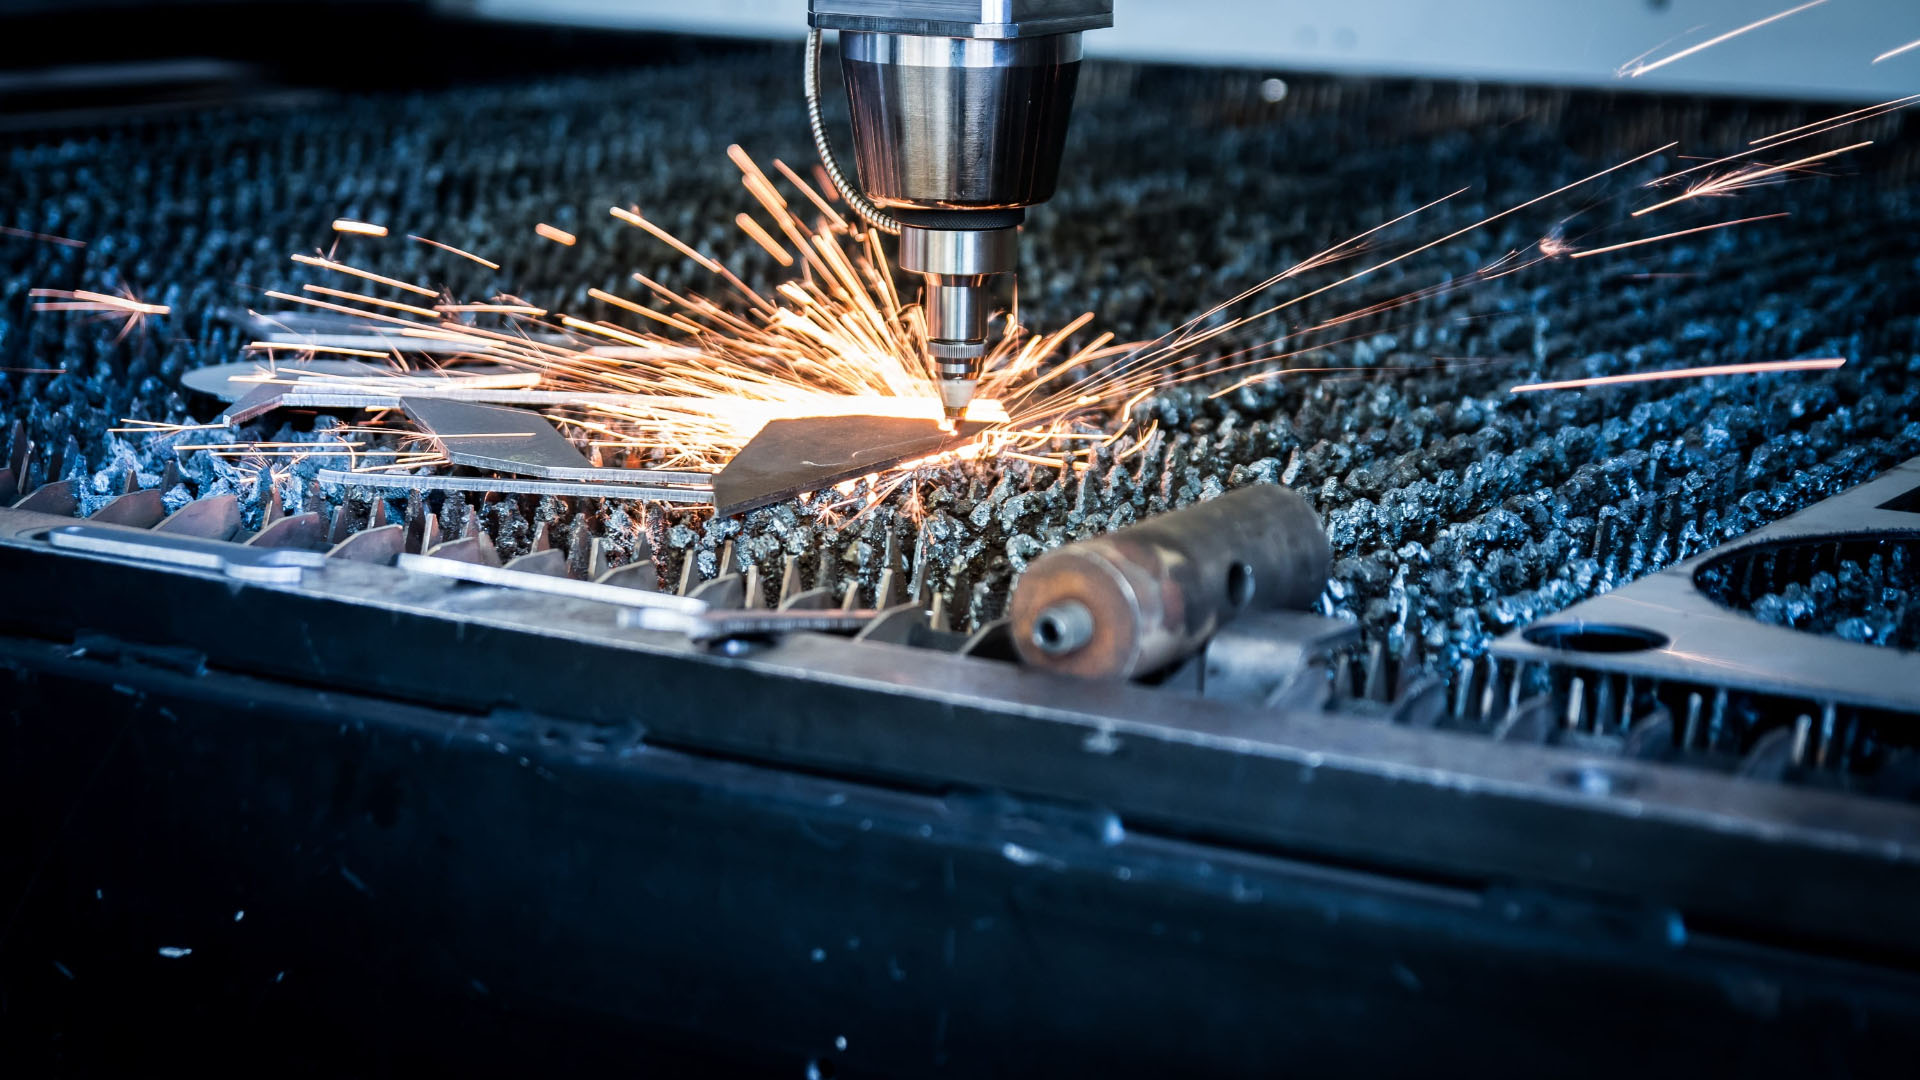
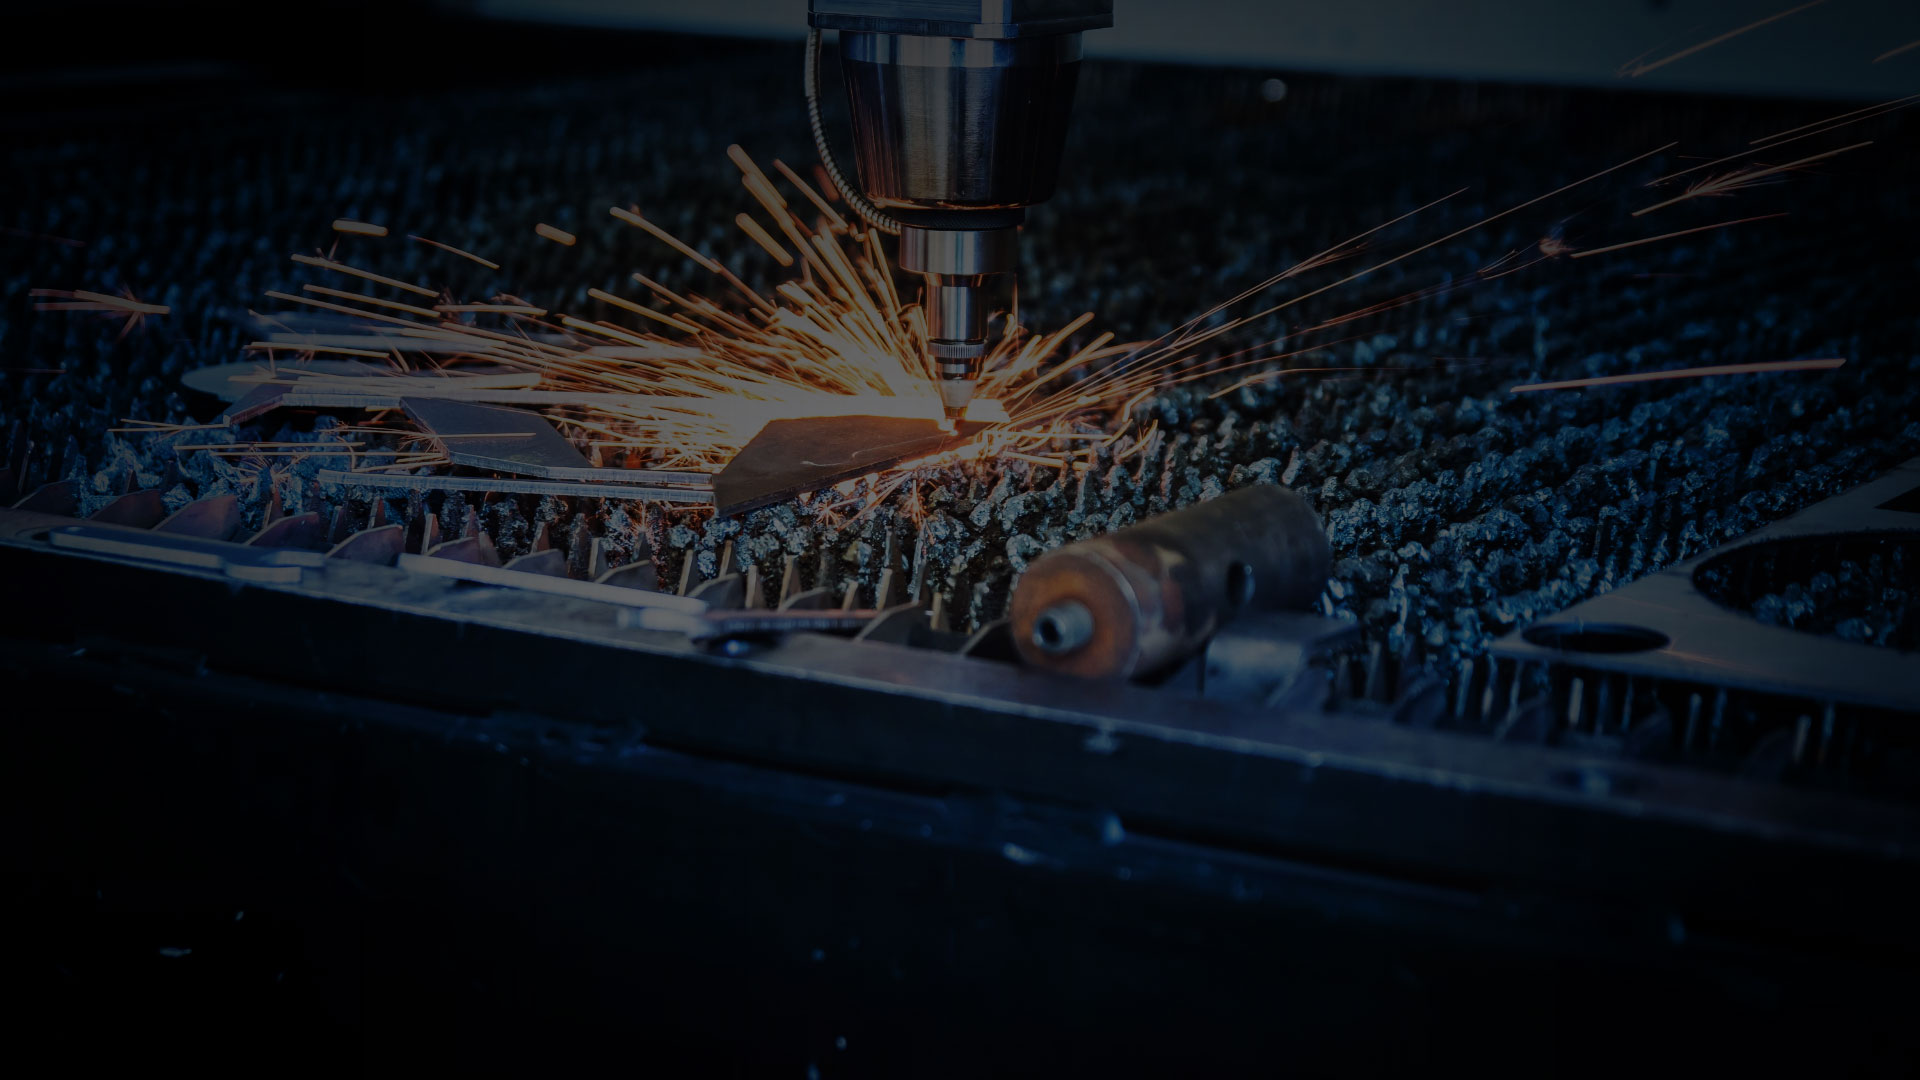
added changing background and copyright to footer

diff --git a/index.css b/index.css
@@ -4,19 +4,72 @@
     box-sizing: border-box;
     font-family: 'Rubik', sans-serif;
     line-height: 1.5;
-
 }
 
 /* #naslovnica{
     display: none;}      /* Not displaying "naslovnica" button when viewer is on the same page */
 
 .header{
-    min-height: 100vh;
+    height: 100vh;
     width: 100%;
-    background-image: linear-gradient(rgba(0, 0, 0, 0.7),rgba(30, 4, 4, 0.7)),url('./images/background_1.jpg');      /* Background gradient for background picture*/
+    background-image: url('./images/image.jpg');
     background-position: center;
     background-size: cover;
+    background-repeat: no-repeat;
+    background-color: transparent;
     position: relative;
+    overflow: hidden;
+    animation: change 66s infinite ease-in-out;
+}
+
+/* Changing "naslovnica" backgrounds */
+
+@keyframes change{
+    0%
+    {
+        background-image: url(images/background_1.jpg);
+    }
+    10%
+    {
+        background-image: url(images/background_2.jpg);
+    }
+    20%
+    {
+        background-image: url(images/background_3.jpg);
+    }
+    30%
+    {
+        background-image: url(images/background_4.jpg);
+    }
+    40%
+    {
+        background-image: url(images/background_5.jpg);
+    }
+    50%
+    {
+        background-image: url(images/background_6.jpg);
+    }
+    60%
+    {
+        background-image: url(images/background_7.jpg);
+    }
+    70%
+    {
+        background-image: url(images/background_8.jpg);
+    }
+    80%
+    {
+        background-image: url(images/background_9.jpg);
+    }
+    90%
+    {
+        background-image: url(images/background_10.jpg);
+    }
+    100%
+    {
+        background-image: url(images/background_11.jpg);
+    }
+
 }
 
 nav{
@@ -219,6 +272,12 @@ footer *{
     box-sizing: border-box;
 }
 
+.copyright{
+    color: #ffffff;
+    font-size: 12px;
+    margin-left: 10px;
+}
+
 .container{
     max-width: 1170px;
     margin: auto;
@@ -321,8 +380,11 @@ ul{
 
 @media screen and (max-width: 1000px){
     
-    .footer{
-        width: 100%;
+    .copyright{
+        font-size: 25px;
+        margin-right: 10px;
+        text-align: right;
+        padding-bottom: 5px;
     }
 
     .row{

diff --git a/about.css b/about.css
@@ -226,6 +226,12 @@ footer *{
     box-sizing: border-box;
 }
 
+.copyright{
+    color: #ffffff;
+    font-size: 12px;
+    margin-left: 10px;
+}
+
 .container{
     max-width: 1170px;
     margin: auto;
@@ -327,6 +333,13 @@ ul{
 /* @media rule is used in media queries to apply different styles for different media devices */
 
 @media screen and (max-width: 1000px){
+
+    .copyright{
+        font-size: 25px;
+        margin-right: 10px;
+        text-align: right;
+        padding-bottom: 5px;
+    }
     
     .row{
         flex-direction: column;

diff --git a/contact.css b/contact.css
@@ -248,6 +248,12 @@ footer *{
     box-sizing: border-box;
 }
 
+.copyright{
+    color: #ffffff;
+    font-size: 12px;
+    margin-left: 10px;
+}
+
 .container{
     max-width: 1170px;
     margin: auto;
@@ -349,6 +355,13 @@ ul{
 /* @media rule is used in media queries to apply different styles for different media devices */
 
 @media screen and (max-width: 1000px){
+
+    .copyright{
+        font-size: 25px;
+        margin-right: 10px;
+        text-align: right;
+        padding-bottom: 5px;
+    }
     
     .row{
         flex-direction: column;

diff --git a/services.css b/services.css
@@ -251,6 +251,12 @@ footer *{
     box-sizing: border-box;
 }
 
+.copyright{
+    color: #ffffff;
+    font-size: 12px;
+    margin-left: 10px;
+}
+
 .container{
     max-width: 1170px;
     margin: auto;
@@ -352,6 +358,13 @@ ul{
 /* @media rule is used in media queries to apply different styles for different media devices */
 
 @media screen and (max-width: 1000px){
+
+    .copyright{
+        font-size: 25px;
+        margin-right: 10px;
+        text-align: right;
+        padding-bottom: 5px;
+    }
     
     .row{
         flex-direction: column;

diff --git a/index.html b/index.html
@@ -84,13 +84,13 @@
             </div>
         </div>
     </div>
-
+    <footer class="copyright">&copy;&nbsp2023. Sva prava pridržana</footer>
 </section>
 
 <!--JavaScript for Toggle Menu-->
 
 <script>
-
+   
     var navLinks = document.getElementById("navLinks");
 
     function showMenu(){

diff --git a/contact.html b/contact.html
@@ -106,7 +106,7 @@
             </div>
         </div>
     </div>
-
+    <footer class="copyright">&copy;&nbsp2023. Sva prava pridržana</footer>
 </section>
 
 <!--JavaScript for Toggle Menu-->

diff --git a/services.html b/services.html
@@ -102,7 +102,7 @@
             </div>
         </div>
     </div>
-
+    <footer class="copyright">&copy;&nbsp2023. Sva prava pridržana</footer>
 </section>
 
 <!--JavaScript for Toggle Menu-->

diff --git a/about.html b/about.html
@@ -98,7 +98,7 @@
             </div>
         </div>
     </div>
-
+    <footer class="copyright">&copy;&nbsp2023. Sva prava pridržana</footer>
 </section>
 
 <!--JavaScript for Toggle Menu-->
